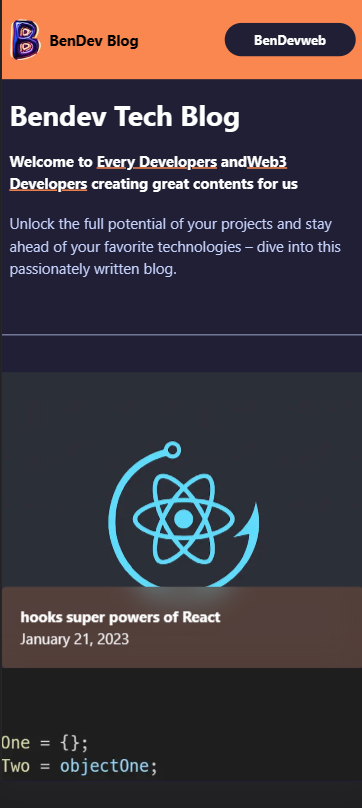
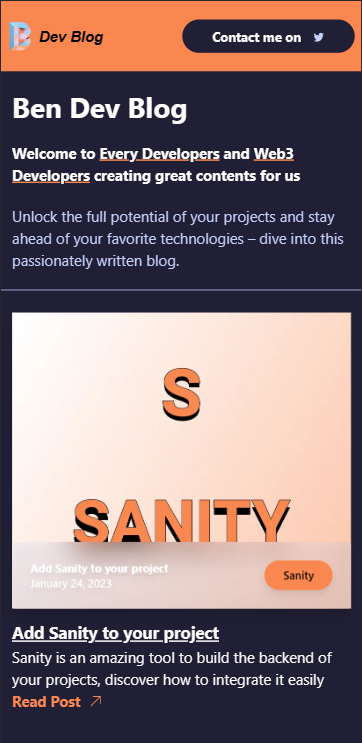
Connected Backend and Frontend Readme Update

diff --git a/components/RichTextComponents.tsx b/components/RichTextComponents.tsx
@@ -1,6 +1,64 @@
-import { client } from "../lib/sanity.client";
 import Image from "next/image";
+import Link from "next/link"
 import urlFor from "../lib/urlFor";
 
-// urlFor
-// client
+export const RichTextComponents = {
+  types: {
+    image: ({value}: any) => {
+      return (
+        <div className="relative w-full max-w-[650px] h-96 max-h-[385px] mx-auto my-12">
+          <Image 
+            className="object-contain"
+            src={urlFor(value).url()}
+            alt="Blog Post Image"
+            fill
+          />
+        </div>
+      );
+    },
+  },
+  list: {
+
+    bullet: ({children}: any) => (
+      <ul className="ml-10 py-5 list-disc space-y-5">{children}</ul>
+    ),
+    number: ({children}: any) => (
+      <ol className="mt-lg list-decimal">{children}</ol>
+    ),
+  },
+  block: {
+    
+    h1: ({children}: any) => (
+      <h1 className="text-5xl py-10 font-bold">{children}</h1>
+    ),
+    h2: ({children}: any) => (
+      <h2 className="text-4xl py-10 font-bold">{children}</h2>
+    ),
+    h3: ({children}: any) => (
+      <h3 className="text-3xl py-10 font-bold">{children}</h3>
+    ),
+    h4: ({children}: any) => (
+      <h4 className="text-2xl py-10 font-bold">{children}</h4>
+    ),
+    blockquote: ({children}: any) => (
+      <blockquote className="border-l-[#F9874F] border-l-4 pl-5 my-5">{children}</blockquote>
+    ),
+  },
+  marks: {
+    link: ({value, children}: any) => {
+      const rel = !value?.href.startsWith("/") 
+        ? 'noreferrer noopener' 
+        : undefined;
+
+        return (
+          <Link 
+            href={value?.href} 
+            rel={rel} 
+            className="underline decoration-[#F9874F] hover:decoration-black"
+          >
+            {children}
+          </Link>
+        );
+    },
+  },
+}

diff --git a/components/Header.tsx b/components/Header.tsx
@@ -2,6 +2,7 @@ import Image from "next/image"
 import Link from "next/link"
 import LogoTwitter from "./LogoTwitter"
 
+// https://res.cloudinary.com/dwoifuutn/image/upload/v1674247731/logo-blog-rmbg_ait7gv.png
 function Header() {
   return (
     <header className="flex items-center justify-between space-x-2 font-bold px-2 sm:px-10 py-5 bg-[#F9874F]">
@@ -11,11 +12,11 @@ function Header() {
           <Image 
             width={25} 
             height={25} 
-            src="https://res.cloudinary.com/dwoifuutn/image/upload/v1674247731/logo-blog-rmbg_ait7gv.png"
+            src="https://res.cloudinary.com/dwoifuutn/image/upload/v1674573367/Bendevblog-logo1-offcl_g3uz7b.png"
             alt="BendevBlog logo profile" 
           />
         </Link>
-        <h1 className="font-[800] italic font-playfair">BenDev Blog</h1>
+        <h1 className="font-[800] italic font-playfair">Dev Blog</h1>
       </div>
 
 
@@ -24,7 +25,7 @@ function Header() {
             href="https://twitter.com/Bendevweb89/"
             className="px-8 py-2 text-sm md:text-base bg-[#211F35] text-white flex items-center rounded-full text-center"
         >
-          BenDevweb
+          Contact me on
           <LogoTwitter className="text-[#C5D2FC] ml-3 mt-0.5" />
         </Link>
       </div>

diff --git a/app/(user)/post/[slug]/page.tsx b/app/(user)/post/[slug]/page.tsx
@@ -2,7 +2,8 @@ import { groq } from "next-sanity";
 import Image from "next/image";
 import { client } from "../../../../lib/sanity.client";
 import urlFor from "../../../../lib/urlFor";
-import author from "../../../../schemas/author";
+import { PortableText } from "@portabletext/react"
+import { RichTextComponents } from "../../../../components/RichTextComponents";
 
 type Props = {
   params: {
@@ -34,7 +35,6 @@ async function Post({params: { slug }}: Props) {
             fill
           />
           </div>
-
 
           <section className="p-5 bg-[#C5D2FC] w-full">
             <div className="flex flex-col md:flex-row justify-between gap-y-5">
@@ -80,6 +80,12 @@ async function Post({params: { slug }}: Props) {
           </section>
         </div>
       </section>
+      <div className="mt-14 text-white">
+      <PortableText 
+        value={post.body}
+        components={RichTextComponents}
+      />
+      </div>
     </article>
   )
 }

diff --git a/components/Banner.tsx b/components/Banner.tsx
@@ -3,7 +3,9 @@ function Banner() {
   return (
     <div  className="flex flex-col lg:flex-row lg:space-x-4 justify-between font-bold lg:mb-5 sm:mb-2 py-5 px-3 sm:px-10">
       <div className="">
-        <h1 className="text-3xl sm:text-5xl text-white mt-0 md:mt-2">Bendev Tech Blog</h1>
+        <h1 className="text-3xl sm:text-5xl text-white mt-0 md:mt-2">
+          Ben Dev Blog
+        </h1>
         <h2 className="mt-5 md:mt-3 text-white">
           Welcome to{" "}
         <span className="underline decoration-[#F9874F] text-white">
